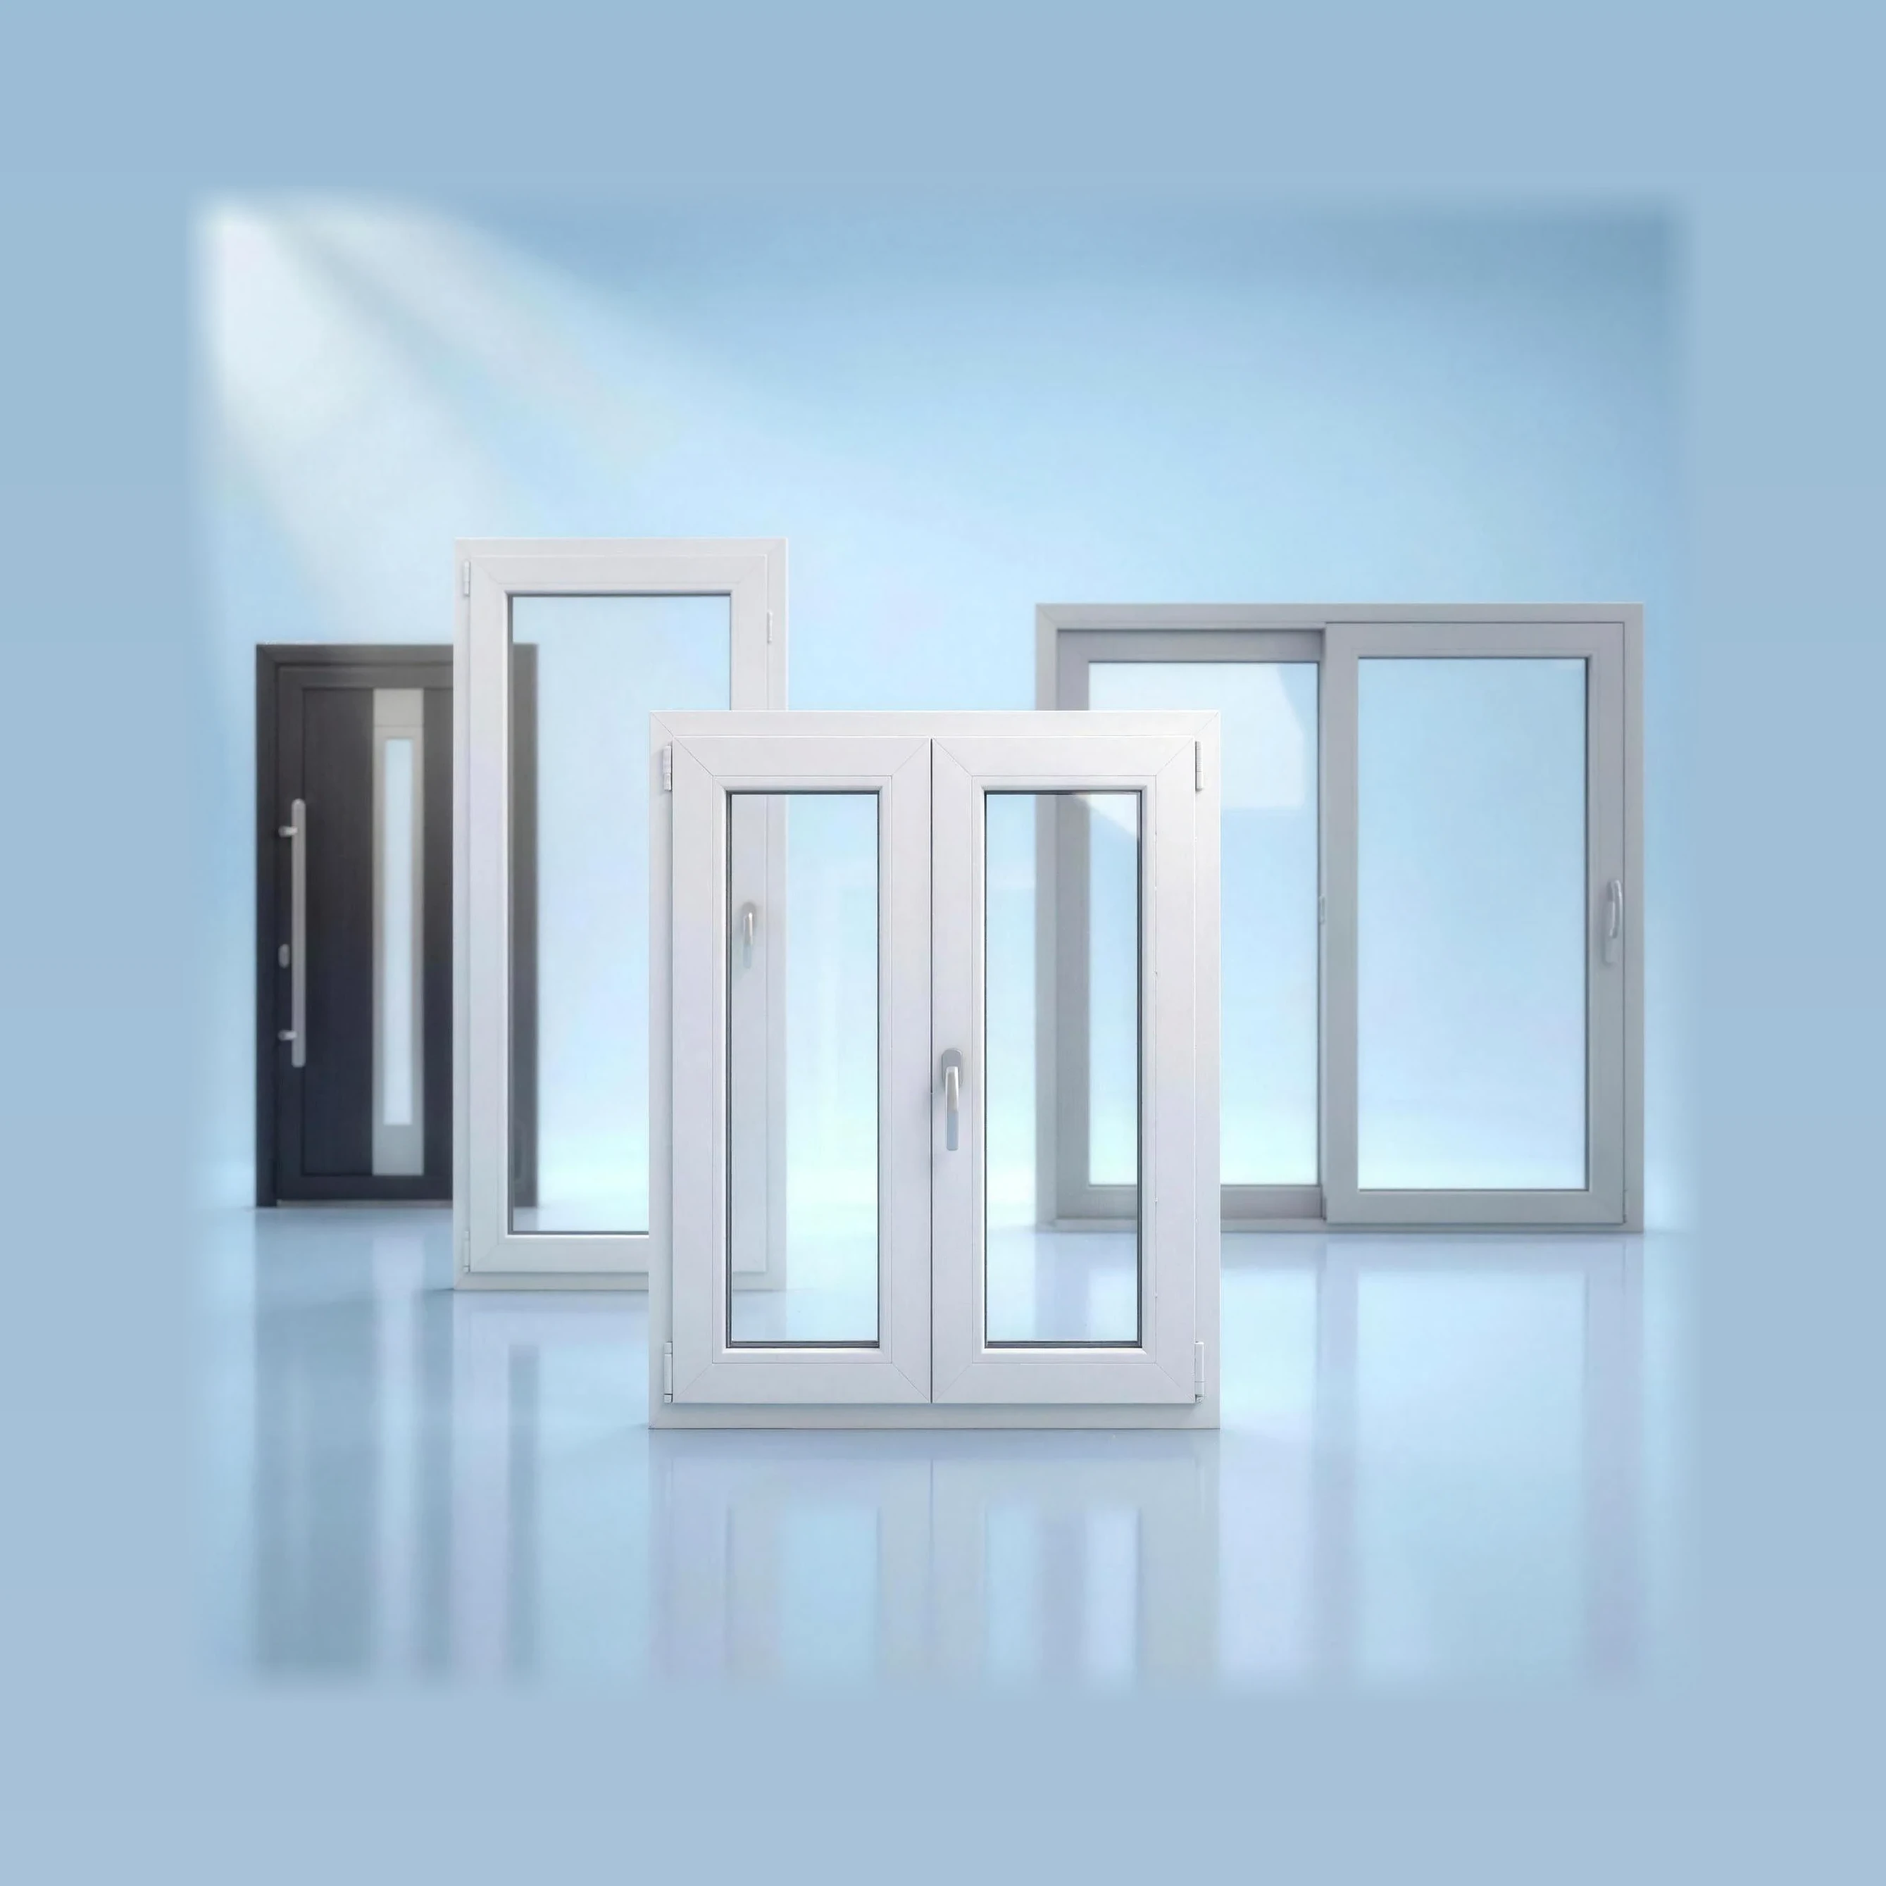
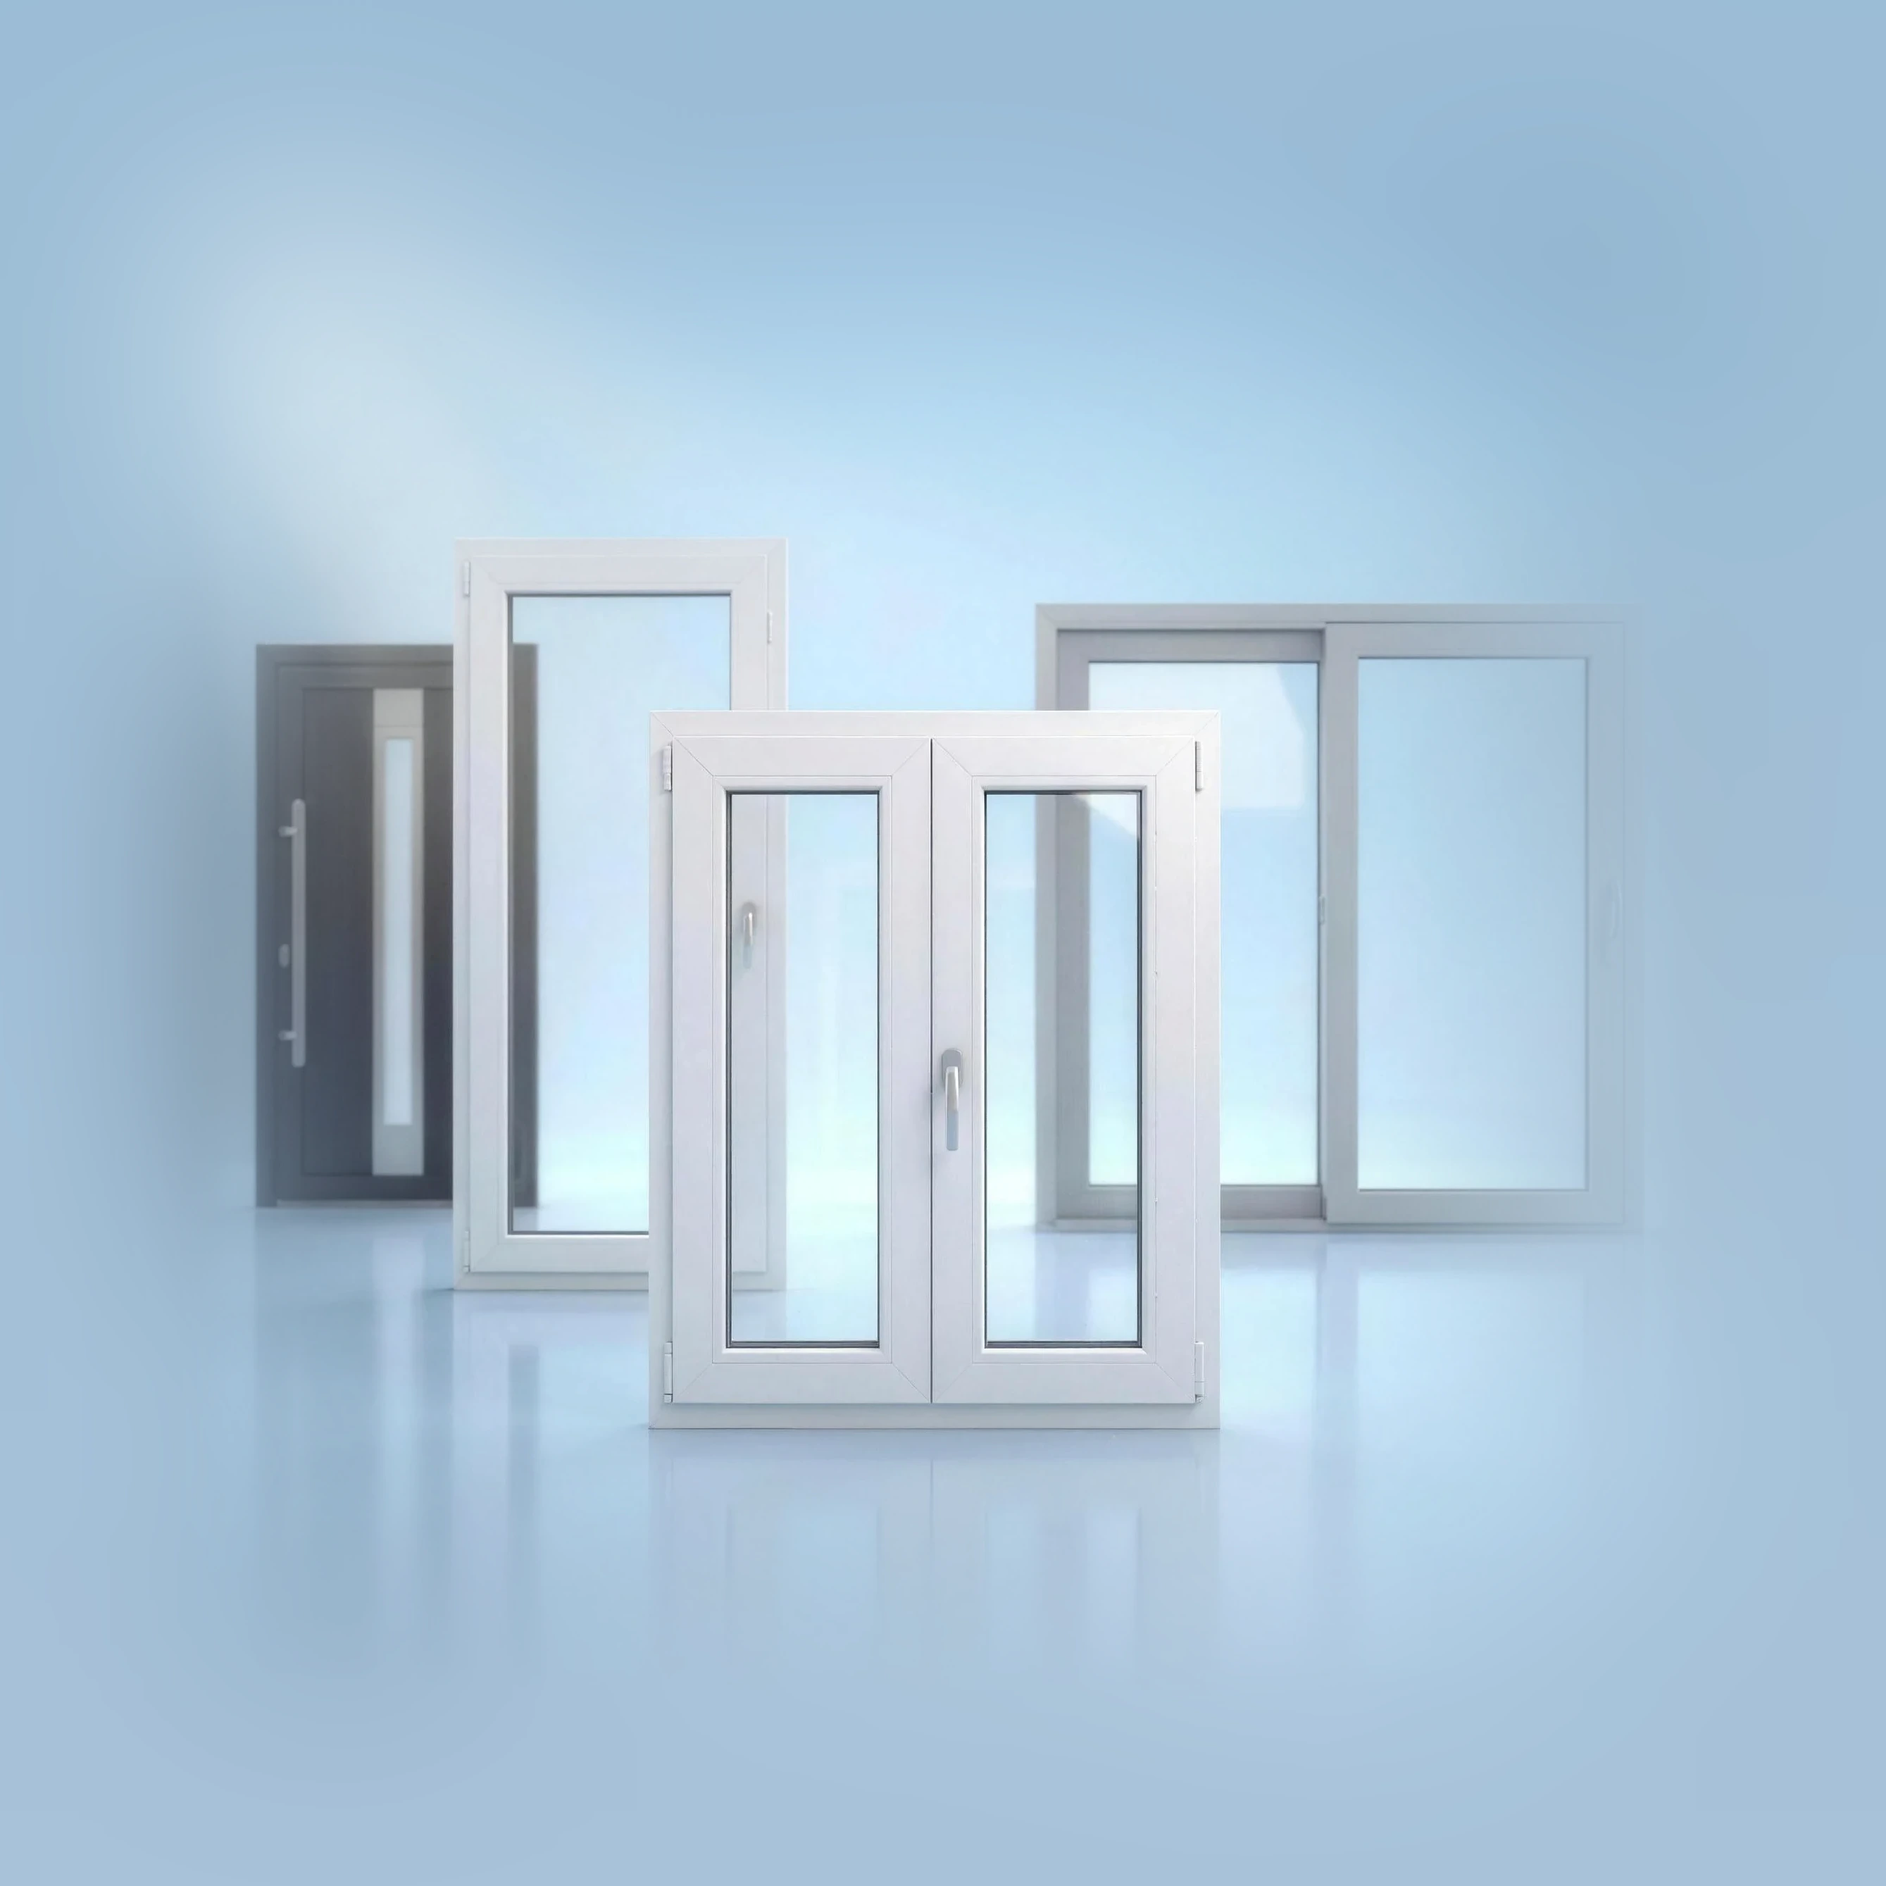
Startseite: Handy-Hero verfeinert - nahtlose Produktdarstellung, weicher Hintergrundverlauf, randlose Produktbilder

Changed region(s): [[0.093, 0.3409, 0.217, 0.6819], [0.7748, 0.3099, 0.8988, 0.6819], [0.093, 0.093, 0.186, 0.217]]

diff --git a/index.html b/index.html
@@ -434,12 +434,14 @@
 .nhero-card-go{width:34px;height:34px;border-radius:50%;background:var(--nprimary);color:#fff;display:grid;place-items:center;font-size:20px;flex:none;margin-left:auto;transition:transform .25s var(--nease)}
 .nhero-card:hover .nhero-card-go{transform:translateX(3px)}
 .nhero-inner{position:relative;z-index:2;width:100%;max-width:1240px;margin:0 auto;padding:0 clamp(20px,4vw,48px)}
-.nhero-head{max-width:600px}
+.nhero-head,.nhero-body{position:relative;z-index:2}  /* Text über dem Produkt (Media liegt jetzt im inner-Stapelkontext) */
+.nhero-tabs{display:none}  /* Segment-Tabs nur auf dem Handy */
+.nhero-head,.nhero-body{max-width:600px}
 .nhero-eyebrow{font-size:.75rem;font-weight:700;letter-spacing:.14em;text-transform:uppercase;color:var(--nprimary-d);display:inline-flex;align-items:center;gap:10px;margin-bottom:18px}
 .nhero-eyebrow::before{content:"";width:26px;height:2px;background:var(--naccent)}
 .nhero h1{font-family:var(--ndisp);font-size:clamp(2.3rem,1.6rem + 2vw,3.2rem);font-weight:700;letter-spacing:-.03em;line-height:1.08;color:var(--nink);margin:0;text-wrap:balance}
 .nhero-soft{display:block;color:var(--nprimary-d);font-size:.6em;line-height:1.12;letter-spacing:-.02em;margin-top:.16em}
-.nhero-head p{font-size:clamp(1rem,.97rem + .3vw,1.18rem);color:var(--nink-soft);margin:20px 0 0;max-width:42ch;line-height:1.55}
+.nhero-body p{font-size:clamp(1rem,.97rem + .3vw,1.18rem);color:var(--nink-soft);margin:20px 0 0;max-width:42ch;line-height:1.55}
 .nhero-cta{display:flex;gap:12px;flex-wrap:wrap;margin-top:30px}
 .nhero-btn{font-family:var(--ndisp);font-weight:600;font-size:.98rem;padding:14px 26px;border-radius:13px;text-decoration:none;transition:transform .2s,background .2s,box-shadow .2s;display:inline-flex;align-items:center}
 .nhero-btn-primary{background:var(--nprimary);color:#fff;box-shadow:0 16px 34px -14px oklch(0.52 0.13 255/.7)}
@@ -459,16 +461,33 @@ nav.main{background:rgba(255,255,255,.92);backdrop-filter:blur(12px);-webkit-bac
 .nav-link:hover{color:var(--acc-text)}
 @media(prefers-reduced-motion:reduce){.nhero-layer,.nhero-card-tx,.nhero-stage{transition:none!important}.nhero-media:hover .nhero-stage{transform:none}}
 @media(max-width:960px){
-  .nhero{flex-direction:column;min-height:0;padding-top:calc(var(--nav-h,106px) + var(--banner-h,0px) + 8px);text-align:center}
-  .nhero-media{position:relative;width:100%;height:auto;aspect-ratio:4/3;order:2;margin-top:16px}
-  .nhero-layer{object-fit:contain;-webkit-mask-image:linear-gradient(180deg,transparent 0,#000 5%,#000 95%,transparent 100%);mask-image:linear-gradient(180deg,transparent 0,#000 5%,#000 95%,transparent 100%)}
-  .nhero-inner{order:1}
-  .nhero-head{max-width:100%;margin:0 auto}
-  .nhero-cta,.nhero-trust,.nhero-eyebrow{justify-content:center}
-  .nhero-head p{margin-left:auto;margin-right:auto}
-  .nhero-nav-prev{left:6px}.nhero-nav-next{right:6px}
-  .nhero-dots{bottom:76px}
-  .nhero-card{left:12px;right:12px;transform:none;bottom:-6px;max-width:none;min-width:0}
+  /* High-End: Überschrift -> Segment-Tabs -> Produkt auf Licht-Bühne -> Text/Buttons */
+  .nhero{flex-direction:column;min-height:0;text-align:left;
+    padding:calc(var(--nav-h,106px) + var(--banner-h,0px) + 18px) 0 10px;
+    background:linear-gradient(180deg,#eaf2fb 0%,#e0edf7 13%,#d2e4f2 25%,#c2dbec 35%,#b4d1e5 46%,#aecadd 57%,#b7d3e7 70%,#d5e9f5 85%,#f4f9fe 100%)}
+  .nhero-inner{display:block;max-width:100%;margin:0;padding:0;position:static}
+  .nhero-head{max-width:100%;margin:0;padding:0 22px}
+  .nhero-eyebrow{justify-content:flex-start}
+  .nhero-head h1{margin:0}
+  /* Wort-Tabs aus — Kundin will die gleichen Pfeile wie am Desktop */
+  .nhero-tabs{display:none}
+  /* Produkt auf demselben Blau, weiche Ober-/Unterkante (kein harter Foto-Block) */
+  .nhero-media{position:relative;width:100%;height:min(92vw,400px);margin:0 0 42px;overflow:visible}
+  .nhero-layer{object-fit:contain;object-position:center 56%;
+    -webkit-mask-image:linear-gradient(180deg,transparent 0,#000 40%,#000 84%,transparent 100%),linear-gradient(90deg,transparent 0,#000 15%,#000 85%,transparent 100%);
+    -webkit-mask-composite:source-in;
+    mask-image:linear-gradient(180deg,transparent 0,#000 40%,#000 84%,transparent 100%),linear-gradient(90deg,transparent 0,#000 15%,#000 85%,transparent 100%);
+    mask-composite:intersect}
+  /* Pfeile wie am Desktop: runde Chevron-Kreise, mittig am Produktrand (Touch >=44px) */
+  .nhero-nav-prev,.nhero-nav-next{width:44px;height:44px;top:42%}
+  .nhero-nav-prev{left:10px}.nhero-nav-next{right:10px}
+  /* Produktname-Karte + Punkte wie am Desktop */
+  .nhero-dots{bottom:74px}
+  .nhero-card{left:16px;right:16px;bottom:12px;transform:none;max-width:none;min-width:0;justify-content:space-between;padding:11px 14px}
+  /* Text */
+  .nhero-body{max-width:100%;margin:0;padding:0 22px}
+  .nhero-cta,.nhero-trust{justify-content:flex-start}
+  .nhero-body p{margin:2px 0 14px;max-width:34ch}
 }
 </style>
 
@@ -844,30 +863,38 @@ body.scrolled .burger{color:var(--text)}
 
 <!-- Neues Startbild: Produkt-Switcher (nhero-Namensraum, kollidiert nicht mit df-2026) -->
 <header class="nhero">
-  <div class="nhero-media" id="heroImg">
-    <div class="nhero-stage" id="heroStage" role="group" aria-roledescription="Produkt-Auswahl" aria-label="Produkt w&auml;hlen &ndash; Pfeiltasten links und rechts oder Klick" tabindex="0">
-      <img class="nhero-layer is-active" data-prod="fenster" src="img/_hero-sw-fenster.webp?v=eq1" alt="Kunststofffenster nach Ma&szlig; von Drutex, dahinter Haust&uuml;r, Balkont&uuml;r und Schiebet&uuml;r" fetchpriority="high" width="1024" height="1024">
-      <img class="nhero-layer" data-prod="balkon" src="img/_hero-sw-balkon.webp?v=eq1" alt="Balkont&uuml;r nach Ma&szlig; von Drutex" loading="lazy" width="1024" height="1024">
-      <img class="nhero-layer" data-prod="haustuer" src="img/_hero-sw-haustuer.webp?v=eq1" alt="Haust&uuml;r nach Ma&szlig; von Drutex" loading="lazy" width="1024" height="1024">
-      <img class="nhero-layer" data-prod="schiebe" src="img/_hero-sw-schiebe.webp?v=eq1" alt="Hebe-Schiebet&uuml;r nach Ma&szlig; von Drutex" loading="lazy" width="1024" height="1024">
-    </div>
-    <button class="nhero-nav nhero-nav-prev" id="heroPrev" type="button" aria-label="Vorheriges Produkt"><span class="material-symbols-outlined" aria-hidden="true">chevron_left</span></button>
-    <button class="nhero-nav nhero-nav-next" id="heroNext" type="button" aria-label="N&auml;chstes Produkt"><span class="material-symbols-outlined" aria-hidden="true">chevron_right</span></button>
-    <div class="nhero-dots" id="heroDots" role="tablist" aria-label="Produkt w&auml;hlen">
-      <button class="nhero-dot is-active" type="button" role="tab" aria-selected="true" data-i="0" aria-label="Fenster"></button>
-      <button class="nhero-dot" type="button" role="tab" aria-selected="false" data-i="1" aria-label="Balkont&uuml;r"></button>
-      <button class="nhero-dot" type="button" role="tab" aria-selected="false" data-i="2" aria-label="Haust&uuml;r"></button>
-      <button class="nhero-dot" type="button" role="tab" aria-selected="false" data-i="3" aria-label="Schiebet&uuml;r"></button>
-    </div>
-    <a class="nhero-card" id="heroCard" href="konfigurator.html?prod=fenster" aria-label="Fenster konfigurieren">
-      <span class="nhero-card-tx"><b id="heroCardTitle" aria-live="polite">Fenster</b><span>Nach Ma&szlig; &middot; Live-Preis</span></span>
-      <span class="nhero-card-go material-symbols-outlined" aria-hidden="true">arrow_forward</span>
-    </a>
-  </div>
   <div class="nhero-inner">
     <div class="nhero-head">
       <span class="nhero-eyebrow">Drutex-Direktimport &middot; Familienbetrieb seit 1996</span>
       <h1>Fenster &amp; T&uuml;ren nach Ma&szlig;. <span class="nhero-soft">Direkt vom Hersteller.</span></h1>
+    </div>
+    <div class="nhero-tabs" role="tablist" aria-label="Produkt w&auml;hlen">
+      <button type="button" data-i="0" class="is-active">Fenster</button>
+      <button type="button" data-i="1">Balkont&uuml;r</button>
+      <button type="button" data-i="2">Haust&uuml;r</button>
+      <button type="button" data-i="3">Schiebet&uuml;r</button>
+    </div>
+    <div class="nhero-media" id="heroImg">
+      <div class="nhero-stage" id="heroStage" role="group" aria-roledescription="Produkt-Auswahl" aria-label="Produkt w&auml;hlen &ndash; Pfeiltasten links und rechts oder Klick" tabindex="0">
+        <img class="nhero-layer is-active" data-prod="fenster" src="img/_hero-sw-fenster.webp?v=ne2" alt="Kunststofffenster nach Ma&szlig; von Drutex, dahinter Haust&uuml;r, Balkont&uuml;r und Schiebet&uuml;r" fetchpriority="high" width="1024" height="1024">
+        <img class="nhero-layer" data-prod="balkon" src="img/_hero-sw-balkon.webp?v=ne2" alt="Balkont&uuml;r nach Ma&szlig; von Drutex" loading="lazy" width="1024" height="1024">
+        <img class="nhero-layer" data-prod="haustuer" src="img/_hero-sw-haustuer.webp?v=ne2" alt="Haust&uuml;r nach Ma&szlig; von Drutex" loading="lazy" width="1024" height="1024">
+        <img class="nhero-layer" data-prod="schiebe" src="img/_hero-sw-schiebe.webp?v=ne2" alt="Hebe-Schiebet&uuml;r nach Ma&szlig; von Drutex" loading="lazy" width="1024" height="1024">
+      </div>
+      <button class="nhero-nav nhero-nav-prev" id="heroPrev" type="button" aria-label="Vorheriges Produkt"><span class="material-symbols-outlined" aria-hidden="true">chevron_left</span></button>
+      <button class="nhero-nav nhero-nav-next" id="heroNext" type="button" aria-label="N&auml;chstes Produkt"><span class="material-symbols-outlined" aria-hidden="true">chevron_right</span></button>
+      <div class="nhero-dots" id="heroDots" role="tablist" aria-label="Produkt w&auml;hlen">
+        <button class="nhero-dot is-active" type="button" role="tab" aria-selected="true" data-i="0" aria-label="Fenster"></button>
+        <button class="nhero-dot" type="button" role="tab" aria-selected="false" data-i="1" aria-label="Balkont&uuml;r"></button>
+        <button class="nhero-dot" type="button" role="tab" aria-selected="false" data-i="2" aria-label="Haust&uuml;r"></button>
+        <button class="nhero-dot" type="button" role="tab" aria-selected="false" data-i="3" aria-label="Schiebet&uuml;r"></button>
+      </div>
+      <a class="nhero-card" id="heroCard" href="konfigurator.html?prod=fenster" aria-label="Fenster konfigurieren">
+        <span class="nhero-card-tx"><b id="heroCardTitle" aria-live="polite">Fenster</b><span>Nach Ma&szlig; &middot; Live-Preis</span></span>
+        <span class="nhero-card-go material-symbols-outlined" aria-hidden="true">arrow_forward</span>
+      </a>
+    </div>
+    <div class="nhero-body">
       <p>Konfiguriere dein Wunschprodukt mit Live-Preis und Skizze, gefertigt nach deinem Ma&szlig; und geliefert deutschlandweit.</p>
       <div class="nhero-cta">
         <a class="nhero-btn nhero-btn-primary" href="konfigurator.html">Jetzt konfigurieren</a>
@@ -1403,6 +1430,7 @@ body.scrolled .burger{color:var(--text)}
   var nextBtn=document.getElementById('heroNext');
   var dotsWrap=document.getElementById('heroDots');
   var dots=dotsWrap?[].slice.call(dotsWrap.querySelectorAll('.nhero-dot')):[];
+  var tabs=[].slice.call(document.querySelectorAll('.nhero-tabs button'));
   var PRODS=[
     {key:'fenster', name:'Fenster',    prod:'fenster'},
     {key:'balkon',  name:'Balkontür',  prod:'balkon'},
@@ -1416,6 +1444,7 @@ body.scrolled .burger{color:var(--text)}
     idx=i; var p=PRODS[i];
     layers.forEach(function(l){ l.classList.toggle('is-active', l.getAttribute('data-prod')===p.key); });
     dots.forEach(function(d,di){ var on=di===i; d.classList.toggle('is-active',on); d.setAttribute('aria-selected',on?'true':'false'); });
+    tabs.forEach(function(t,ti){ var on=ti===i; t.classList.toggle('is-active',on); t.setAttribute('aria-selected',on?'true':'false'); });
     card.classList.add('swapping');
     if(swapT) window.clearTimeout(swapT);
     swapT=window.setTimeout(function(){
@@ -1431,6 +1460,7 @@ body.scrolled .burger{color:var(--text)}
   nextBtn.addEventListener('click',function(){ nextP(); });
   prevBtn.addEventListener('click',function(){ prevP(); });
   dots.forEach(function(d){ d.addEventListener('click',function(){ setActive(+d.getAttribute('data-i')); }); });
+  tabs.forEach(function(t){ t.addEventListener('click',function(){ setActive(+t.getAttribute('data-i')); }); });
   stage.addEventListener('click',function(e){
     if(swiped){ swiped=false; return; }
     var r=stage.getBoundingClientRect();
